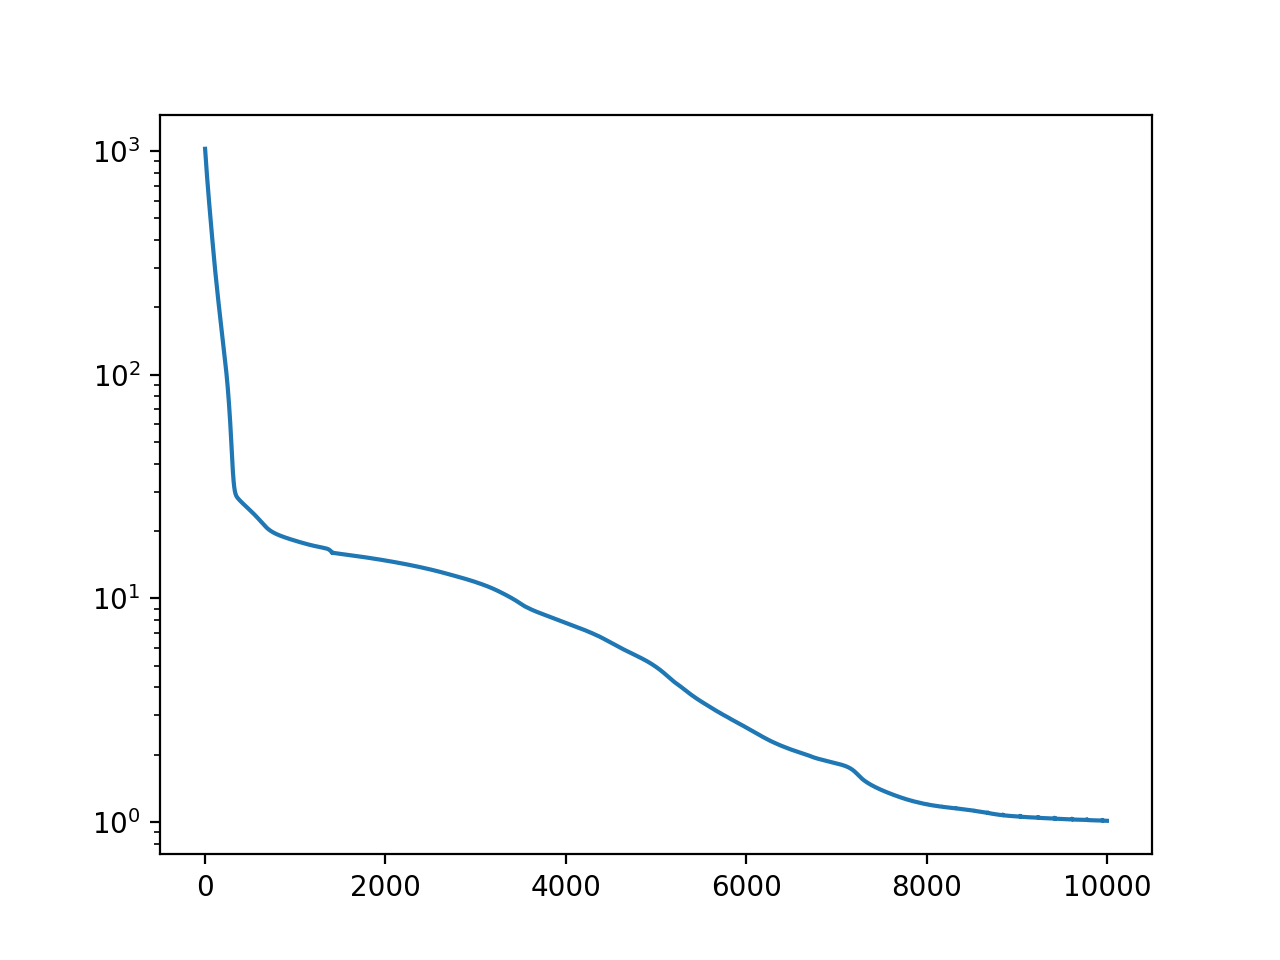
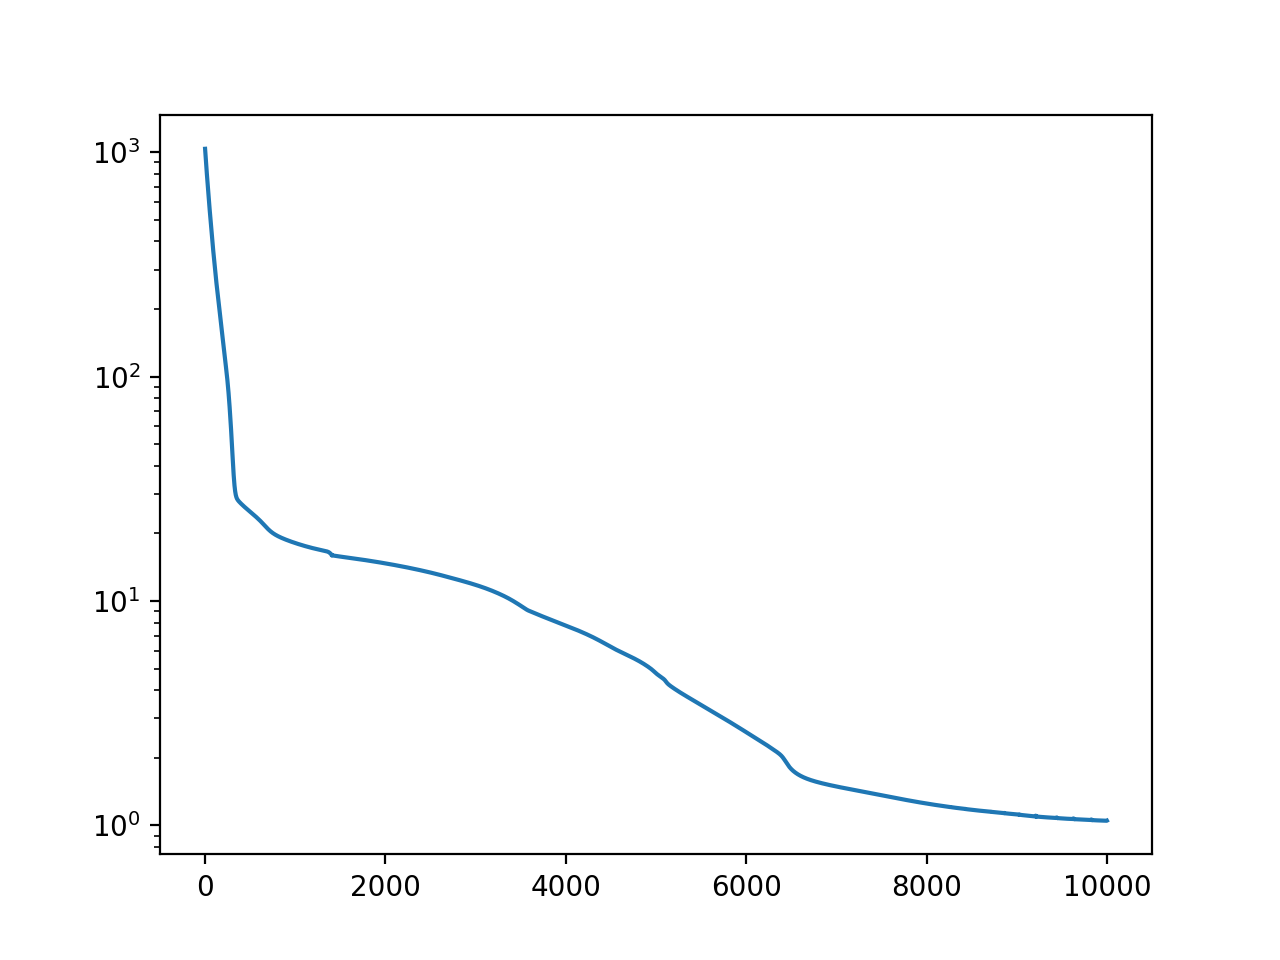
mask grads

diff --git a/made.py b/made.py
@@ -5,48 +5,48 @@ import jax.random as jr
 import equinox as eqx
 
 
-def get_mask(in_features, out_features, in_flow_features, mask_type=None):
+def get_mask(in_size, out_size, n_features, mask_type=None):
     if mask_type == 'input':
-        in_degrees = jnp.arange(in_features) % in_flow_features # Check this gives correct range...
+        in_degrees = jnp.arange(in_size) % n_features # Check this gives correct range...
     else:
-        in_degrees = jnp.arange(in_features) % (in_flow_features - 1)
+        in_degrees = jnp.arange(in_size) % (n_features - 1)
 
     if mask_type == 'output':
-        out_degrees = jnp.arange(out_features) % in_flow_features - 1
+        out_degrees = jnp.arange(out_size) % n_features - 1
     else:
-        out_degrees = jnp.arange(out_features) % (in_flow_features - 1)
-    return (out_degrees[..., None] >= in_degrees[None, ...])
+        out_degrees = jnp.arange(out_size) % (n_features - 1)
+    return (out_degrees[..., jnp.newaxis] >= in_degrees[jnp.newaxis, ...])
 
 
 class MaskedLinear(eqx.Module):
     weight: jax.Array
     bias: jax.Array
     mask: jax.Array
-    cond_linear: Optional[eqx.nn.Linear] = None
+    condition: Optional[eqx.nn.Linear] = None
 
     def __init__(
         self,
-        in_features,
-        out_features,
+        in_size,
+        out_size,
         mask,
-        cond_in_features=None,
+        y_dim=None,
         *,
         key
     ):
         key_w, key_c = jr.split(key)
-        self.weight = jr.normal(key_w, (out_features, in_features))
-        self.bias = jnp.zeros((out_features,))
+        self.weight = jr.normal(key_w, (out_size, in_size))
+        self.bias = jnp.zeros((out_size,))
 
-        if cond_in_features is not None:
-            self.cond_linear = eqx.nn.Linear(
-                cond_in_features, out_features, use_bias=False, key=key_c
+        if y_dim is not None:
+            self.condition = eqx.nn.Linear(
+                y_dim, out_size, use_bias=False, key=key_c
             )
         self.mask = mask
 
-    def __call__(self, inputs, cond_inputs=None, key=None):
-        output = (self.weight * self.mask) @ inputs + self.bias
-        if cond_inputs is not None:
-            output += self.cond_linear(cond_inputs)
+    def __call__(self, x, y=None, key=None):
+        output = (self.weight * jax.lax.stop_gradient(self.mask)) @ x + self.bias
+        if y is not None:
+            output += self.condition(y)
         return output
 
 

diff --git a/maf.py b/maf.py
@@ -11,10 +11,10 @@ class Permute(eqx.Module):
     perm: jax.Array
     reverse_perm: jax.Array
 
-    def __init__(self, nvars, perm=None, *, key):
+    def __init__(self, in_size, perm=None, *, key):
         # If perm is none, chose some random permutation that gets fixed at initialization
         if perm is None:
-            perm = jr.permutation(key, jnp.arange(nvars))
+            perm = jr.permutation(key, jnp.arange(in_size))
         self.perm = perm
         self.reverse_perm = jnp.argsort(perm)
 
